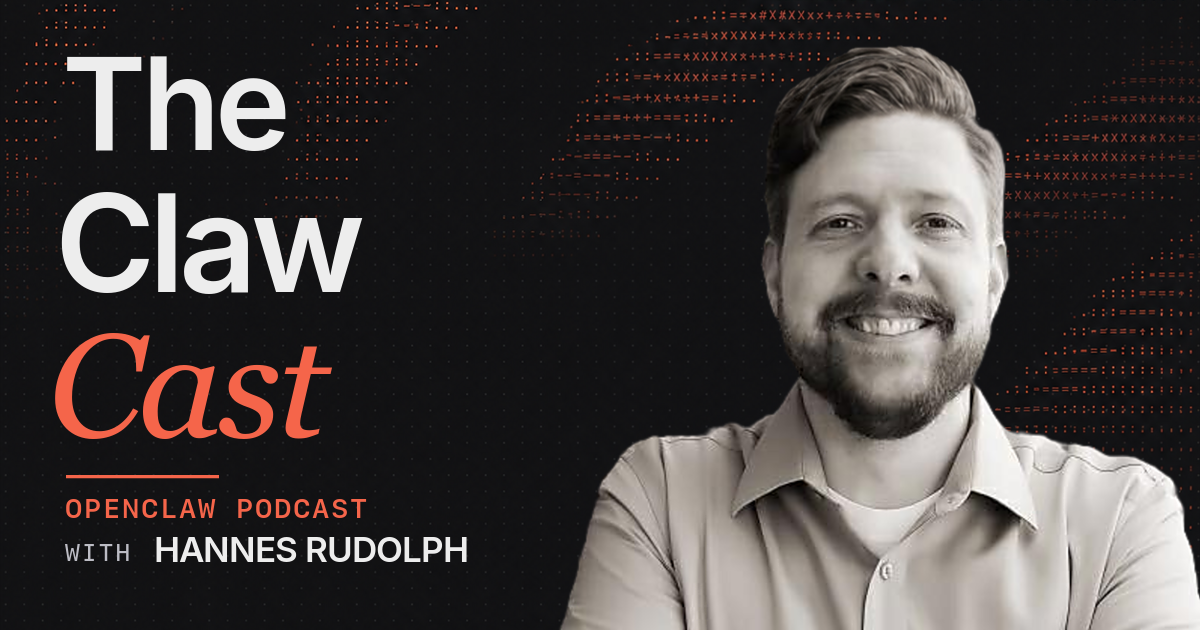
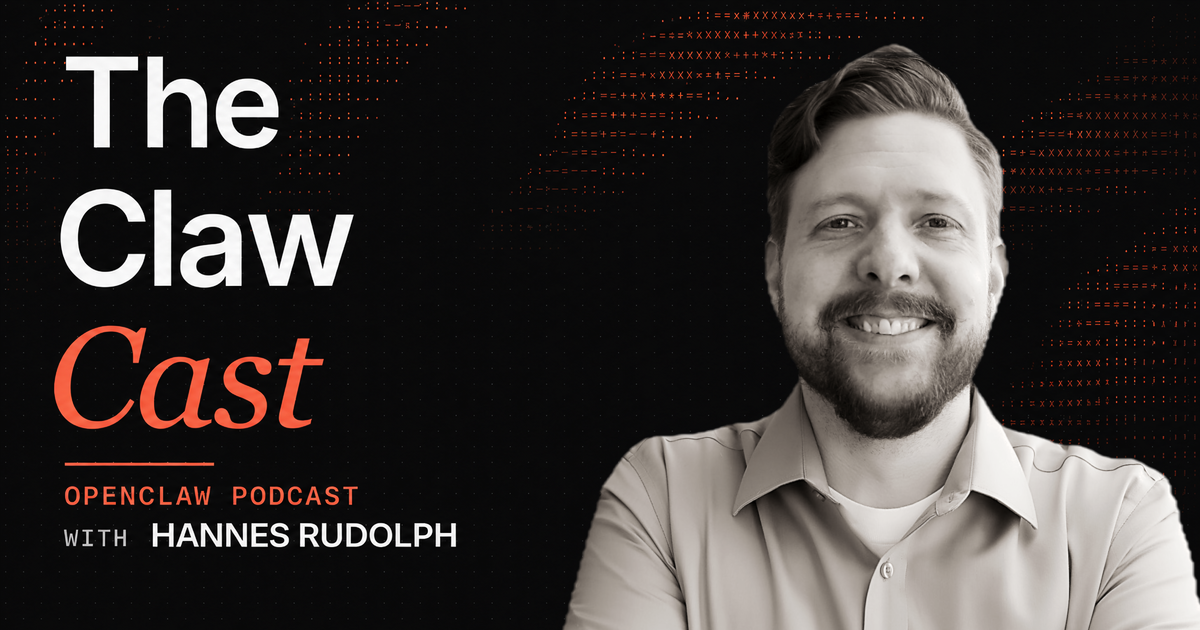
Add ClawCast Episode 8 (#238)
Adds Episode 8 with the final live-demo title and transcript-backed description, verified YouTube and Spotify destinations, and the new podcast OG and square artwork.

diff --git a/src/data/podcast.ts b/src/data/podcast.ts
@@ -28,6 +28,38 @@ const spotifyShowUrl = 'https://open.spotify.com/show/033M5Wn9WAAdujY1qAcIYO';
 
 export const podcastEpisodes: PodcastEpisode[] = [
   {
+    number: 8,
+    slug: 'episode-8',
+    title: 'Live Demo: OpenClaw’s New Web UI, Multiplayer OpenClaw, and Mac Onboarding',
+    hosts: [
+      { name: 'Hannes Rudolph', xUrl: 'https://x.com/hrudolph' },
+      { name: 'Patrick Erichsen', xUrl: 'https://x.com/Pat_Erichsen' },
+    ],
+    guests: [
+      { name: 'Josh Lehman', xUrl: 'https://x.com/jlehman_' },
+    ],
+    airedAt: '2026-08-19',
+    youtubeUrl: 'https://www.youtube.com/watch?v=8HWopYIwbN8',
+    spotifyUrl: 'https://open.spotify.com/episode/26L06Vw1R0ceMMl7x7cEPT',
+    spotifyLabel: 'Open in Spotify',
+    listingSummary: 'Josh Lehman joins Hannes Rudolph and Patrick Erichsen for live demos of the upcoming OpenClaw release, including the rebuilt web UI, Multiplayer OpenClaw, and a streamlined Mac onboarding experience.',
+    description: `In this episode of OpenClaw’s official podcast, The ClawCast, host Hannes Rudolph, OpenClaw Community Manager, and co-host Patrick Erichsen, OpenClaw Developer, are joined by Josh Lehman, OpenClaw maintainer and founder of Martian Engineering, to live-demo major parts of the upcoming OpenClaw release: the rebuilt web UI, Multiplayer OpenClaw, and the new Mac onboarding experience.
+
+The demos show the Control UI as a full browser-based software development environment, a shared RoboClaw gateway where teammates can see, share, and take over agent sessions, and a streamlined macOS installer that discovers existing models, credentials, skills, and plugins. The conversation also covers why the release is taking longer, the push for stability, the self-learning Skill Workshop, and the rewritten memory system.
+
+Learn more about The OpenClaw Foundation: https://www.openclaw.org
+
+Guests and hosts socials:
+Hannes Rudolph: https://x.com/hrudolph
+Patrick Erichsen: https://x.com/Pat_Erichsen
+Josh Lehman: https://x.com/jlehman_
+
+Listen on Spotify: https://open.spotify.com/episode/26L06Vw1R0ceMMl7x7cEPT
+
+Recorded live every Wednesday at 11:30 AM PT on Discord.
+Join our Discord: https://discord.com/invite/clawd`,
+  },
+  {
     number: 7,
     slug: 'episode-7',
     title: 'Unfiltered Q&A with OpenClaw Founder Peter Steinberger',

diff --git a/tests/podcast.test.ts b/tests/podcast.test.ts
@@ -2,23 +2,23 @@ import { describe, expect, test } from 'bun:test';
 import { podcastEpisodes } from '../src/data/podcast';
 
 describe('podcast episode catalog', () => {
-  test('keeps Episode 7 first with its approved destinations and participants', () => {
+  test('keeps Episode 8 first with its approved destinations and participants', () => {
     const episode = podcastEpisodes[0];
 
     expect(episode).toMatchObject({
-      number: 7,
-      slug: 'episode-7',
-      title: 'Unfiltered Q&A with OpenClaw Founder Peter Steinberger',
-      airedAt: '2026-08-12',
-      youtubeUrl: 'https://www.youtube.com/watch?v=WhkfUnKJuoY',
-      spotifyUrl: 'https://open.spotify.com/episode/5mA2L9xmW76nq4erEKb3MP',
+      number: 8,
+      slug: 'episode-8',
+      title: 'Live Demo: OpenClaw’s New Web UI, Multiplayer OpenClaw, and Mac Onboarding',
+      airedAt: '2026-08-19',
+      youtubeUrl: 'https://www.youtube.com/watch?v=8HWopYIwbN8',
+      spotifyUrl: 'https://open.spotify.com/episode/26L06Vw1R0ceMMl7x7cEPT',
     });
     expect(episode.hosts.map(({ name }) => name)).toEqual([
       'Hannes Rudolph',
       'Patrick Erichsen',
     ]);
-    expect(episode.guests.map(({ name }) => name)).toEqual(['Peter Steinberger']);
-    expect(episode.description).toContain('An unfiltered Q&A with Peter Steinberger');
-    expect(episode.description).toContain('Together, they cover');
+    expect(episode.guests.map(({ name }) => name)).toEqual(['Josh Lehman']);
+    expect(episode.description).toContain('live-demo major parts of the upcoming OpenClaw release');
+    expect(episode.description).toContain('a shared RoboClaw gateway');
   });
 });
